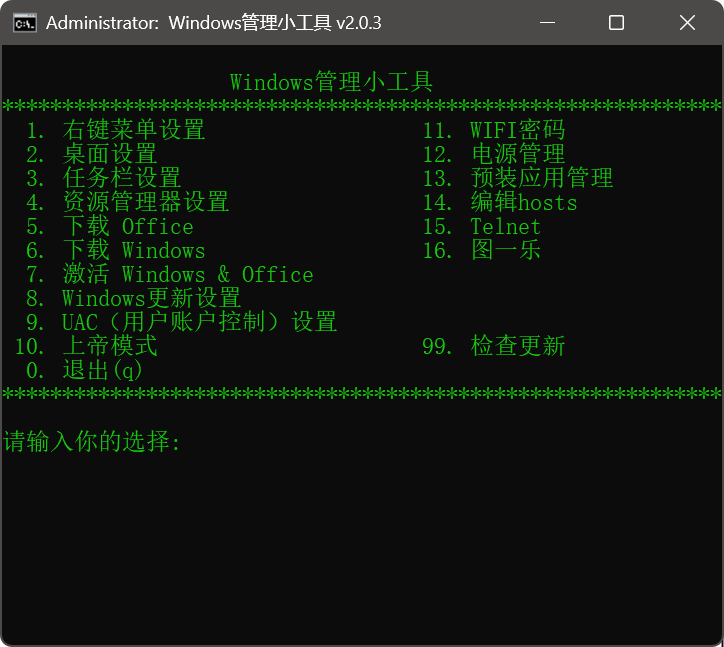
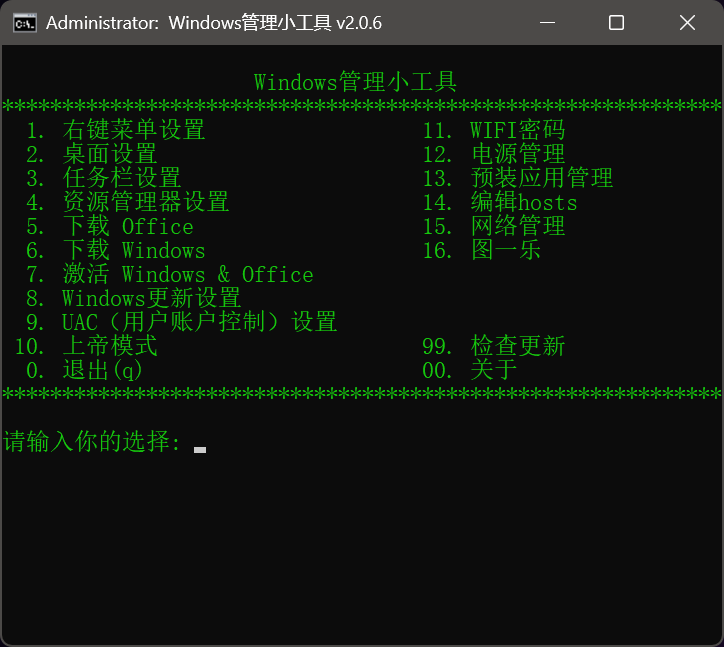
更新版本2.0.6 添加端口占用检查 添加关于说明

diff --git a/README.md b/README.md
@@ -4,25 +4,27 @@
 
 ## 🚀 功能列表
 
-| 功能编号  | 描述                     |
-|-------|------------------------|
-| 1     | 🖱 右键菜单设置             |
-| 2     | 🖥 桌面设置               |
-| 3     | 📌 任务栏设置               |
-| 4     | 📂 资源管理器设置             |
-| 5     | 📦 安装 Microsoft Office |
-| 6     | ✅ 激活 Windows & Office  |
-| 7     | 🌐 下载 Windows 系统镜像     |
-| 8     | 🔄 Windows 更新设置        |
-| 9     | 🛡 UAC（用户账户控制）设置      |
-| 10    | 🧙 上帝模式启用              |
-| 11    | 📶 查看 WIFI 密码          |
-| 12    | 🔋 电源管理配置              |
-| 13    | 🧹 预装应用管理              |
-| 14    | ✏ 编辑hosts             |
-| 15    | 📡 Telnet功能            |
-| 16    | 😄 图一乐（娱乐功能）           |
-| 0 / q | ❌ 退出程序                 |
+| 功能编号 | 描述                      |
+| -------- | ------------------------- |
+| 1        | 🖱 右键菜单设置            |
+| 2        | 🖥 桌面设置                |
+| 3        | 📌 任务栏设置              |
+| 4        | 📂 资源管理器设置          |
+| 5        | 📦 下载 Office             |
+| 6        | 🪟 下载 Windows            |
+| 7        | ✅ 激活 Windows & Office   |
+| 8        | 🔄 Windows 更新设置        |
+| 9        | 🛡 UAC（用户账户控制）设置 |
+| 10       | 🧙 上帝模式启用            |
+| 11       | 📶 查看 WIFI 密码          |
+| 12       | 🔋 电源管理配置            |
+| 13       | 🧹 预装应用管理            |
+| 14       | ✏ 编辑hosts               |
+| 15       | 🖧  网络管理               |
+| 16       | 😄 图一乐                  |
+| 99       | 🔄 检查更新                |
+| 00       | ℹ 关于                    |
+| 0 / q    | ❌ 退出程序                |
 
 ---
 
@@ -39,7 +41,7 @@
    启动后根据提示输入功能编号，即可进入对应模块进行设置或操作。
 
 3. **系统兼容性**  
-   - Windows 11 测试通过 。Windows 10未经过完全测试，需要谨慎使用。
+   - 本工具请在Windows 11/10 中使用。因每个人电脑设置差异，可能导致无法使用本脚本。
    - 建议使用简体中文系统，以确保字符显示正常
 
 ---
